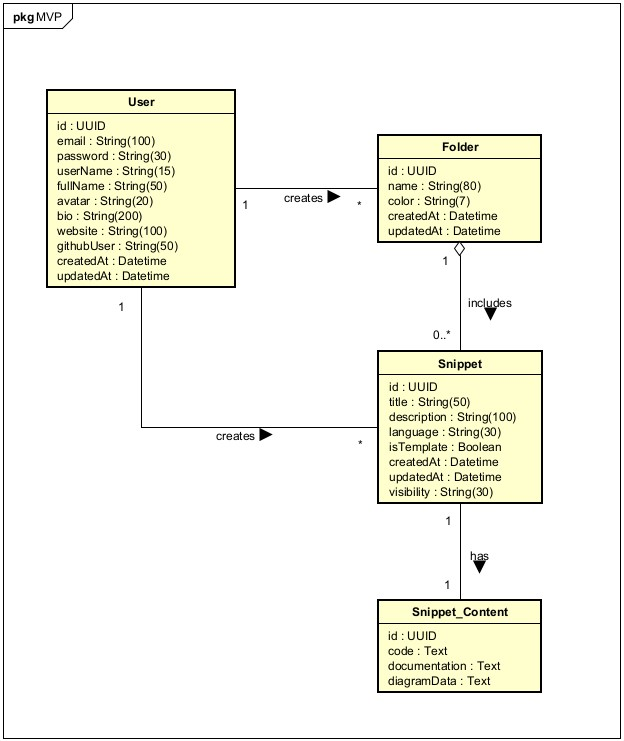
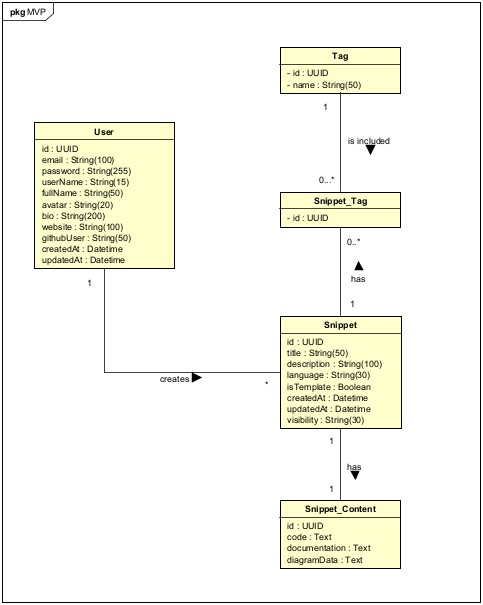
refactor: replace folder-based system with dynamic tagging system

Changed region(s): [[0.0621, 0.0595, 0.8696, 0.7438], [0.0, 0.0, 1.0, 1.0], [0.559, 0.7438, 0.8696, 0.9521]]

diff --git a/client/src/Router.tsx b/client/src/Router.tsx
@@ -11,7 +11,6 @@ import HomeView from "@/views/HomeView";
 
 // app views
 import DashboardView from "@/views/app/DashboardView";
-import FilesView from "./views/app/FilesView";
 import AccountView from "./views/app/AccountView";
 import ExploreView from "./views/app/ExploreView";
 import NewSnippetView from "./views/app/snippets/NewSnippetView";
@@ -39,7 +38,6 @@ export default function Router () {
 
         <Route element={<SideBar />} path="/app/*">
           <Route path="dashboard" element={<DashboardView />} />
-          <Route path="files" element={<FilesView />} />
           <Route path="account" element={<AccountView />} />
           <Route path="explore" element={<ExploreView />} />
           <Route path="snippets/new" element={<NewSnippetView />} />

diff --git a/server/src/models/Tag.ts b/server/src/models/Tag.ts
@@ -1,0 +1,36 @@
+import {
+    Table,
+    Column,
+    Model,
+    DataType,
+    Default,
+    PrimaryKey,
+    Unique,
+    AllowNull,
+    BelongsToMany
+} from "sequelize-typescript";
+
+// Models
+import Snippet from "./Snippet";
+import SnippetTag from "./SnippetTag";
+
+@Table({
+    tableName: "tags",
+    timestamps: true
+})
+class Tag extends Model {
+    @PrimaryKey
+    @Default(DataType.UUIDV4)
+    @Column(DataType.UUID)
+    declare id: string;
+
+    @Unique
+    @AllowNull(false)
+    @Column(DataType.STRING(50))
+    declare name: string;
+
+    @BelongsToMany(() => Snippet, () => SnippetTag)
+    declare snippets: Snippet[];
+}
+
+export default Tag;

diff --git a/server/src/models/SnippetTag.ts b/server/src/models/SnippetTag.ts
@@ -1,0 +1,34 @@
+import {
+    Table,
+    Column,
+    Model,
+    DataType,
+    ForeignKey,
+    PrimaryKey,
+    Default
+} from "sequelize-typescript";
+
+// Models
+import Snippet from "./Snippet";
+import Tag from "./Tag";
+
+@Table({
+    tableName: "snippet_tags",
+    timestamps: false
+})
+class SnippetTag extends Model {
+    @PrimaryKey
+    @Default(DataType.UUIDV4)
+    @Column(DataType.UUID)
+    declare id: string;
+
+    @ForeignKey(() => Snippet)
+    @Column(DataType.UUID)
+    declare snippetId: string;
+
+    @ForeignKey(() => Tag)
+    @Column(DataType.UUID)
+    declare tagId: string;
+}
+
+export default SnippetTag;

diff --git a/client/src/components/app/atoms/SnippetCard.tsx b/client/src/components/app/atoms/SnippetCard.tsx
@@ -125,7 +125,7 @@ const SnippetCard = ({ id, title, description, lang, updatedAt, visibility, onEd
                     {formatSnippetDate(updatedAt)}
                 </div>
                 <div className="btm-snippet-card-visibility">
-                    {visibility === "Public" ? <Globe /> : visibility === "unListed" ? <LinkIcon /> : <Lock />}
+                    {visibility === "public" ? <Globe /> : visibility === "unListed" ? <LinkIcon /> : <Lock />}
                     {visibility.charAt(0).toUpperCase() + visibility.slice(1)}
                 </div>
             </div>

diff --git a/server/src/models/Snippet.ts b/server/src/models/Snippet.ts
@@ -13,7 +13,6 @@ import {
 
 // Models
 import User from "./User";
-import Folder from "./Folder";
 import SnippetContent from "./SnippetContent";
 
 @Table({
@@ -52,14 +51,6 @@ class Snippet extends Model {
 
     @BelongsTo(() => User)
     declare user: User;
-
-    // Folder relation
-    @ForeignKey(() => Folder)
-    @Column(DataType.UUID)
-    declare folderId: string;
-
-    @BelongsTo(() => Folder)
-    declare folder: Folder;
 
     // Content relation
     @HasOne(() => SnippetContent)

diff --git a/client/src/components/app/SideBar.tsx b/client/src/components/app/SideBar.tsx
@@ -6,7 +6,6 @@ import "@/assets/css/components/SideBar.css";
 // Icons & images
 import {
     Code,
-    FolderOpen,
     FilePlus,
     Telescope,
     UserRoundCog,
@@ -40,12 +39,6 @@ const listSideBar = [
         name: "My Snippets",
         icon: Code,
         link: "/app/dashboard",
-        strokeWidth: 2.4
-    },
-    {
-        name: "My Files",
-        icon: FolderOpen,
-        link: "/app/files",
         strokeWidth: 2.4
     },
     {

diff --git a/server/src/models/User.ts b/server/src/models/User.ts
@@ -12,7 +12,6 @@ import {
 
 // Models
 import Snippet from "./Snippet";
-import Folder from "./Folder";
 
 @Table({
     tableName: "users"
@@ -54,10 +53,7 @@ class User extends Model {
     @Column(DataType.STRING(50))
     declare githubUser: string;
 
-    // Relations with folder & snippet
-    @HasMany(() => Folder)
-    declare folders: Folder[];
-
+    // Relations with snippet
     @HasMany(() => Snippet)
     declare snippets: Snippet[];
 }
